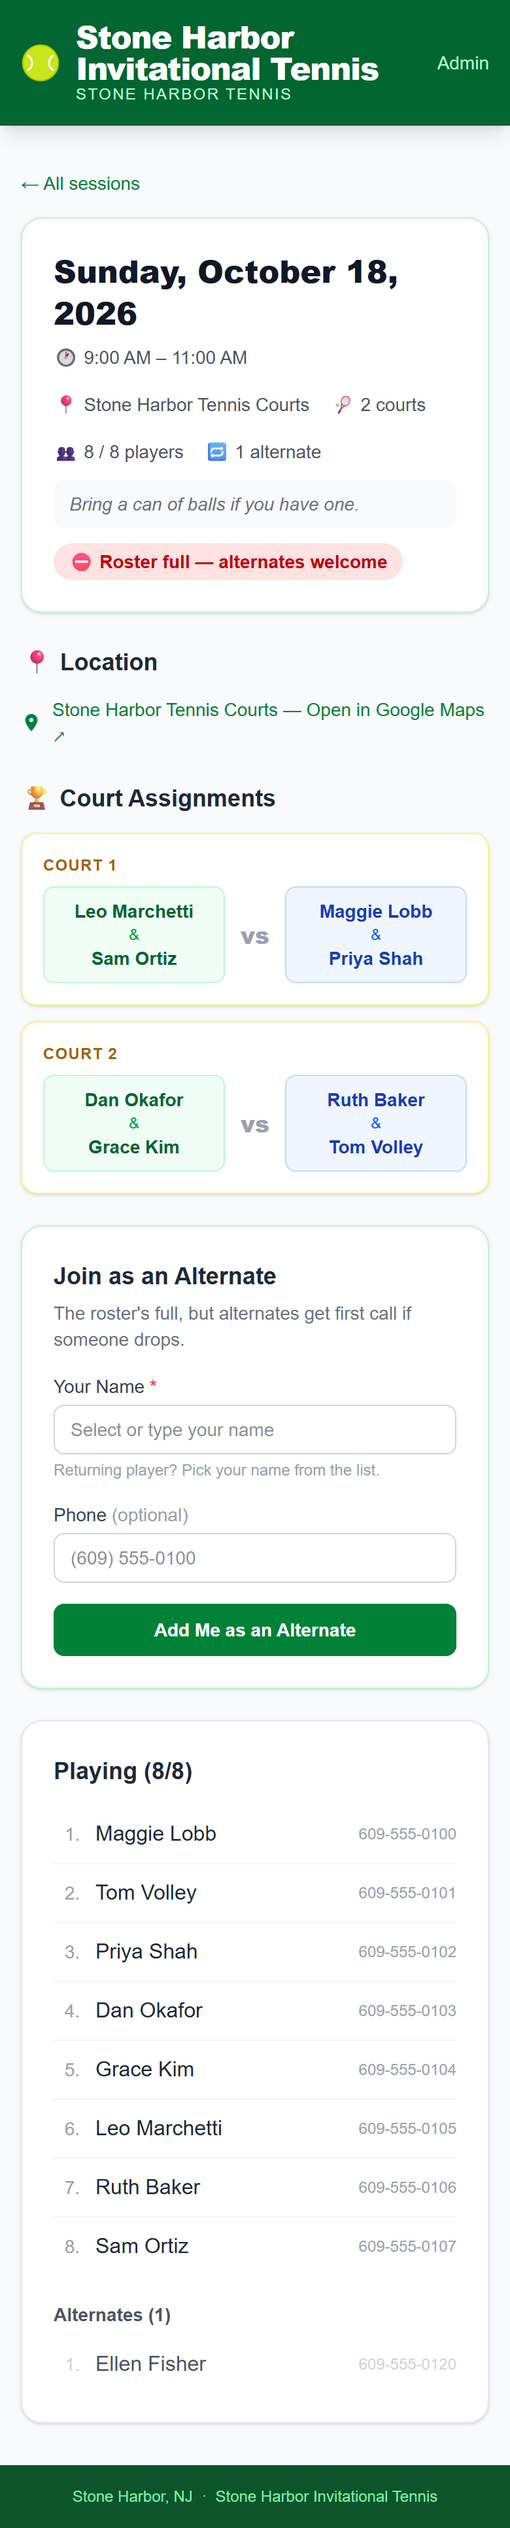
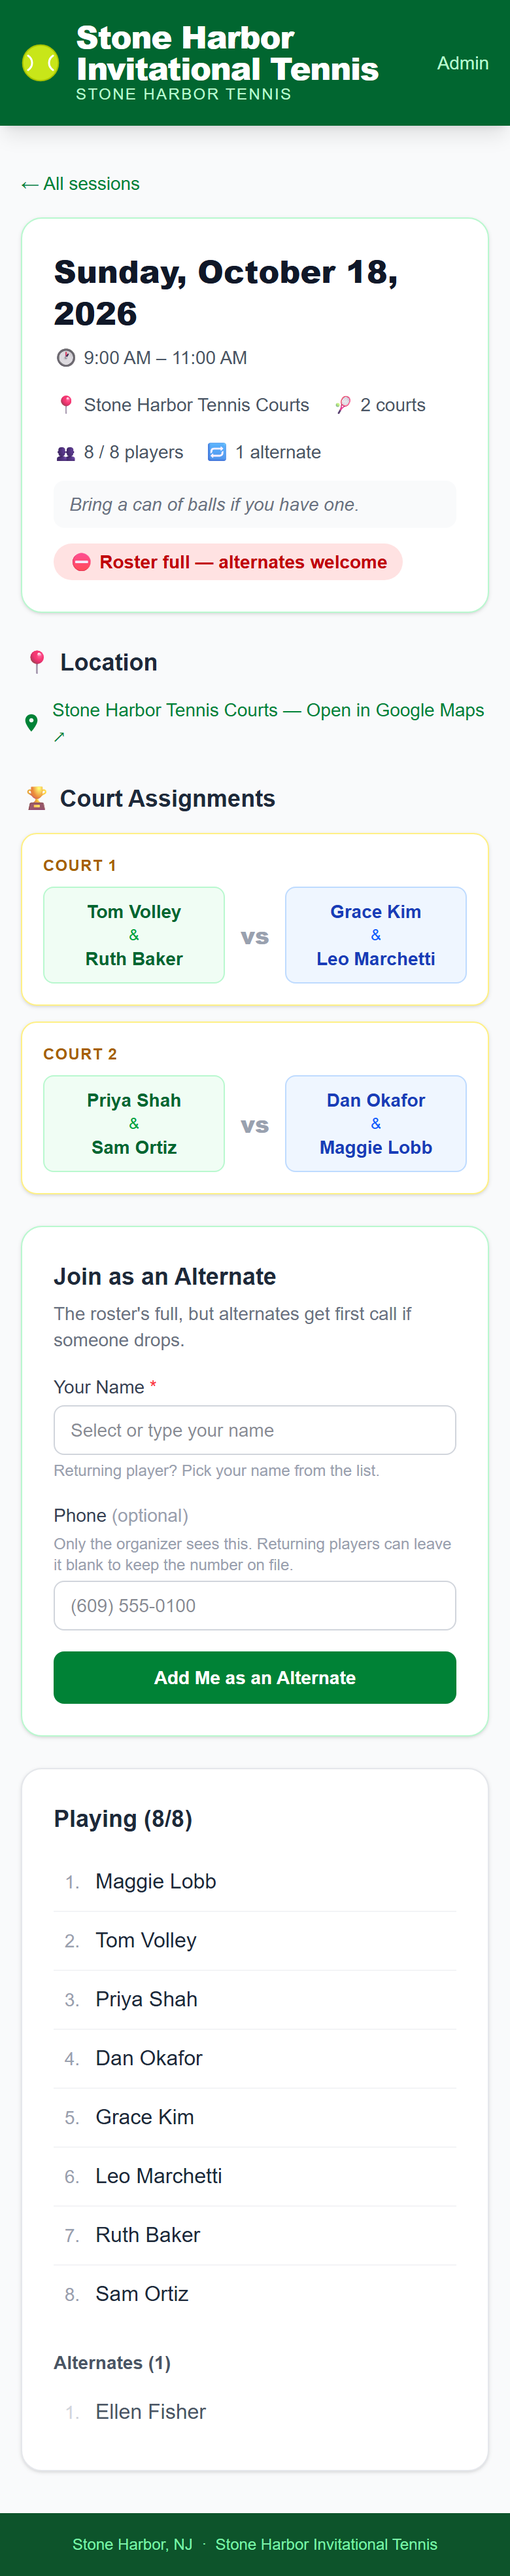
docs(readme): retake session screenshot without phone numbers
Captured from the fix/hide-public-phone-numbers branch (#57), which
stops showing phone numbers on the public session page.

diff --git a/README.md b/README.md
@@ -5,7 +5,7 @@ A scheduling and signup site for a recreational doubles tennis league in Stone H
 <p align="center">
   <img src="docs/screenshots/home.png" alt="Home page: upcoming sessions with courts, times and spots left" width="300">
   &nbsp;&nbsp;
-  <img src="docs/screenshots/session.png" alt="Session page: generated court assignments, alternate signup form and the roster" width="300">
+  <img src="docs/screenshots/session.png" alt="Session page: generated court assignments, alternate signup form and the player list" width="300">
 </p>
 <p align="center"><sub>Home page (left) and a full session with generated pairings (right), on a phone-width viewport. Sample data.</sub></p>
 
